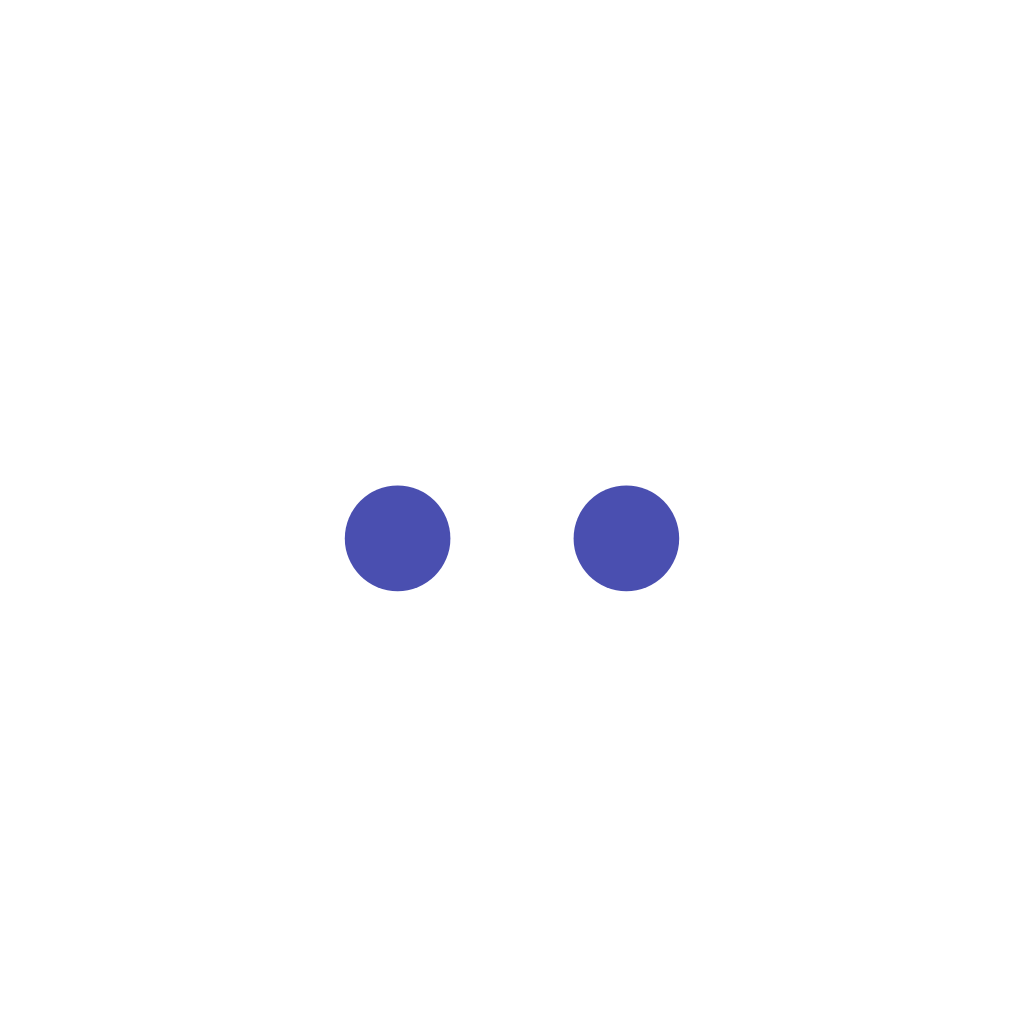
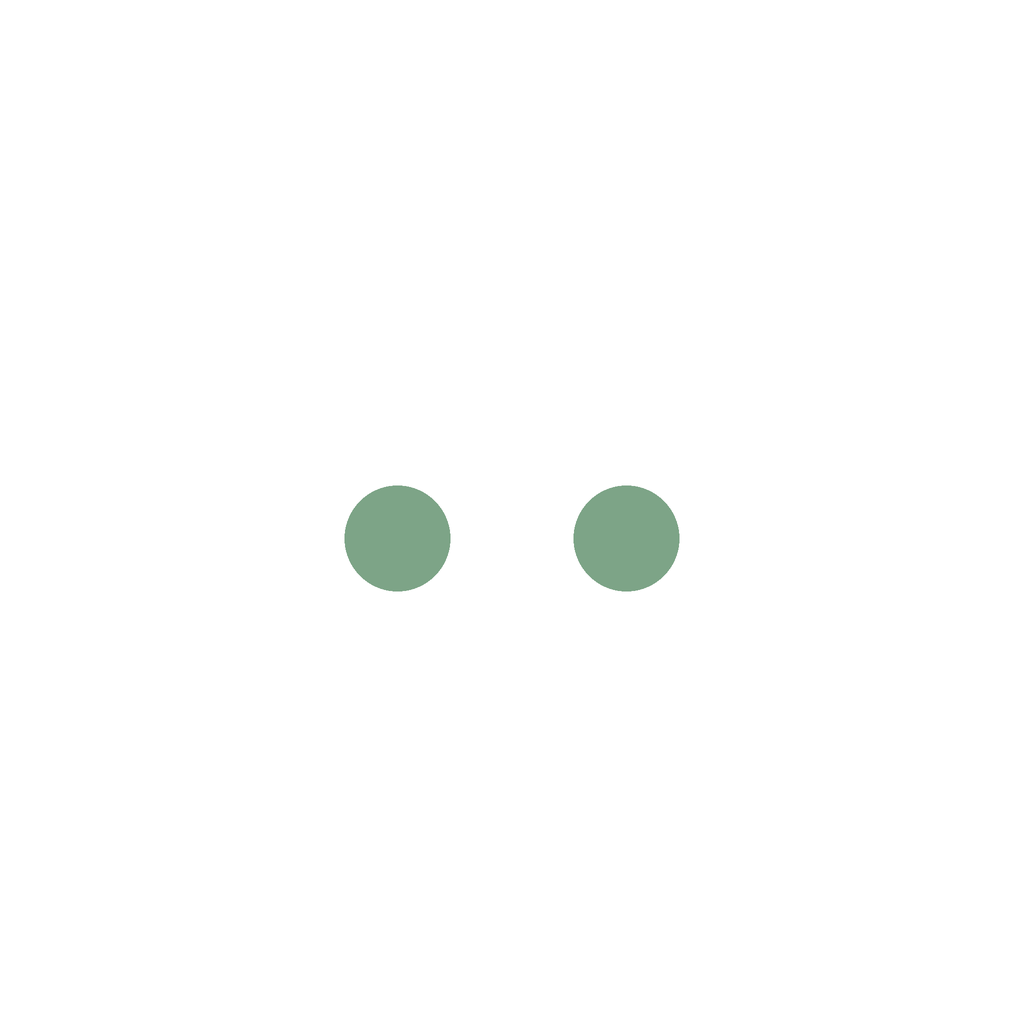
Add files via upload

Changed region(s): [[0.5625, 0.4688, 0.6875, 0.5938], [0.3125, 0.4688, 0.4375, 0.5938]]

diff --git a/index.html b/index.html
@@ -4,7 +4,7 @@
 <meta charset="utf-8">
 <meta name="viewport" content="width=device-width, initial-scale=1">
 <title>Unplugged</title>
-<meta name="theme-color" content="#ebebe8">
+<meta name="theme-color" content="#eceee9">
 <link rel="icon" type="image/svg+xml" href="favicon.svg">
 <link rel="apple-touch-icon" href="apple-touch-icon.png">
 <link rel="manifest" href="manifest.json">
@@ -16,8 +16,8 @@
 <link href="https://fonts.googleapis.com/css2?family=Bricolage+Grotesque:wght@400;600;800&display=swap" rel="stylesheet">
 <script>try{var _s=JSON.parse(localStorage.getItem("reset-tracker-v1"));if(_s&&_s.lock&&_s.lock.h)document.documentElement.classList.add("locked");}catch(e){}</script>
 <style>
-:root{--bg:#ebebe8;--card:#f8f8f6;--ink:#1f2124;--mute:#62666b;--accent:#3e444c;--clean:#3e444c;--slip:#3578a6;--line:#d8d8d4;--panic:#c2412d;--on:#fff}
-:root[data-theme=dark]{--on:#17181a;--bg:#17181a;--card:#212326;--ink:#ececec;--mute:#9a9ea4;--accent:#c4c9d0;--clean:#c4c9d0;--slip:#8cc4ea;--line:#34373b;--panic:#e2664f}
+:root{--bg:#eceee9;--card:#f8f9f6;--ink:#1f2622;--mute:#5a665e;--accent:#4f7f5c;--clean:#4f7f5c;--slip:#3578a6;--line:#d7dcd4;--panic:#c2412d;--on:#fff}
+:root[data-theme=dark]{--on:#112017;--bg:#161a17;--card:#1f2421;--ink:#e9eeea;--mute:#98a39b;--accent:#a9d2b3;--clean:#a9d2b3;--slip:#8cc4ea;--line:#333b36;--panic:#e2664f}
 *{box-sizing:border-box}
 html{scroll-padding-top:env(safe-area-inset-top,0px);overflow-y:scroll}
 body{margin:0;background:var(--bg);color:var(--ink);font:400 17px/1.55 "Bricolage Grotesque",system-ui,-apple-system,"Segoe UI",sans-serif;padding:env(safe-area-inset-top,0px) 0 env(safe-area-inset-bottom,0px)}
@@ -1317,8 +1317,8 @@ canvas.qr{display:block;width:100%;max-width:360px;height:auto;margin:0 auto 4px
       light:{accent:"#7a3fa8",slip:"#8f6a0c",bg:"#eee9f3",card:"#faf8fc",ink:"#261d30",mute:"#6a5d7a",line:"#d9cfe3",on:"#ffffff"},
       dark:{accent:"#c9a0ee",slip:"#e6c35c",bg:"#1b1522",card:"#271e30",ink:"#efe8f6",mute:"#a898ba",line:"#3d2f4b",on:"#1c0f29"}},
     neutral:{name:"Neutral",
-      light:{accent:"#3e444c",slip:"#3578a6",bg:"#ebebe8",card:"#f8f8f6",ink:"#1f2124",mute:"#62666b",line:"#d8d8d4",on:"#ffffff"},
-      dark:{accent:"#c4c9d0",slip:"#8cc4ea",bg:"#17181a",card:"#212326",ink:"#ececec",mute:"#9a9ea4",line:"#34373b",on:"#17181a"}},
+      light:{accent:"#4f7f5c",slip:"#3578a6",bg:"#eceee9",card:"#f8f9f6",ink:"#1f2622",mute:"#5a665e",line:"#d7dcd4",on:"#ffffff"},
+      dark:{accent:"#a9d2b3",slip:"#8cc4ea",bg:"#161a17",card:"#1f2421",ink:"#e9eeea",mute:"#98a39b",line:"#333b36",on:"#112017"}},
     mint:{name:"Mint",
       light:{accent:"#0f7f61",slip:"#2f4a7a",bg:"#e6f3ee",card:"#f6fbf9",ink:"#14302a",mute:"#55736a",line:"#c8e0d6",on:"#ffffff"},
       dark:{accent:"#7fe0bf",slip:"#8fb0f0",bg:"#0f1f1d",card:"#172a27",ink:"#e4f5ef",mute:"#8fb5aa",line:"#274540",on:"#0b2a21"}},

diff --git a/sw.js b/sw.js
@@ -1,6 +1,6 @@
 /* Unplugged service worker: caches the app so it works fully offline.
    Bump CACHE when you ship a new version so old files get cleaned up. */
-var CACHE = "unplugged-v8";
+var CACHE = "unplugged-v9";
 var CORE = ["./", "index.html", "manifest.json", "favicon.svg", "icon.svg", "icon-maskable.svg", "apple-touch-icon.png"];
 var FONT_HOSTS = ["fonts.googleapis.com", "fonts.gstatic.com"];
 
